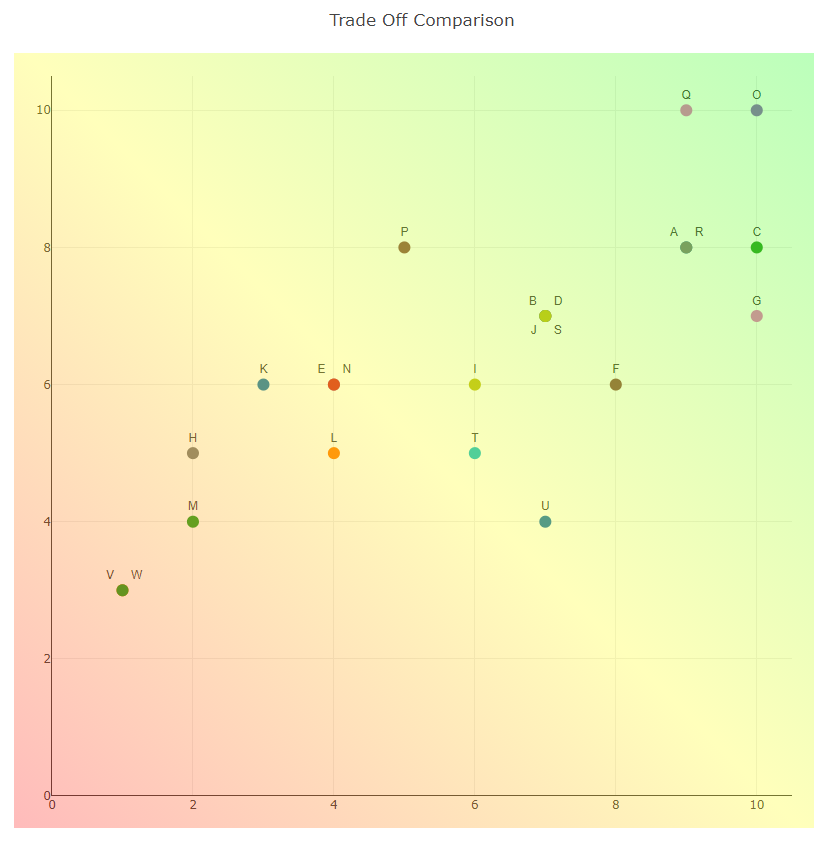
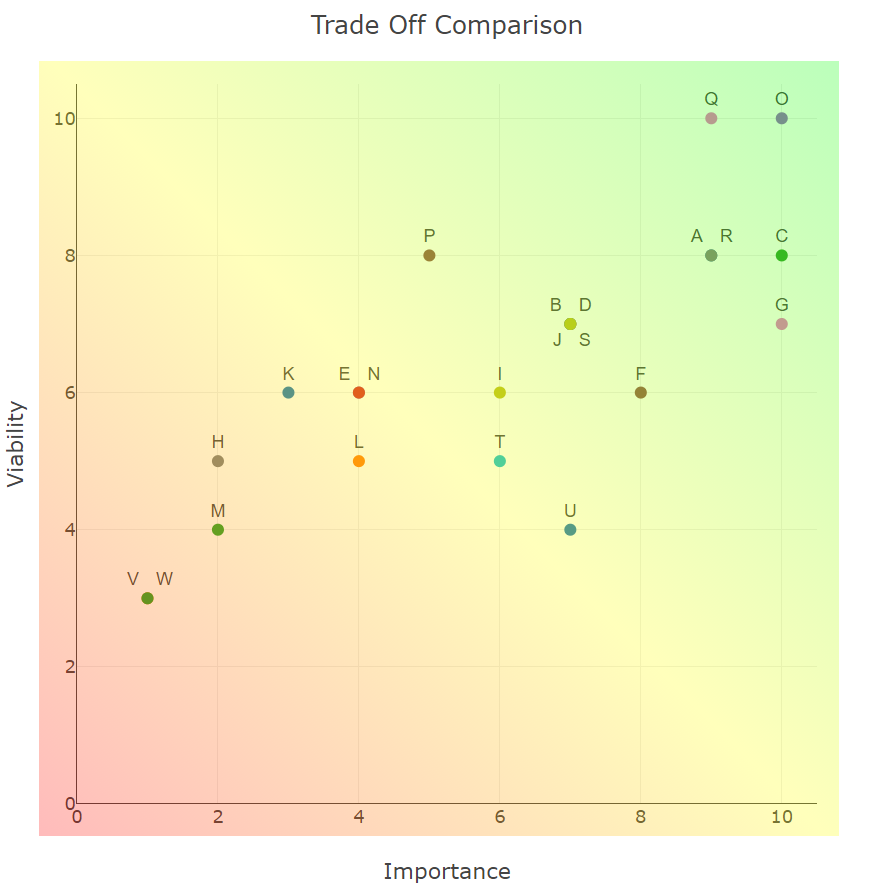
ADD axis labels to comparison chart and update image [scatter.js]

diff --git a/readme-content/scatter.js b/readme-content/scatter.js
@@ -46,12 +46,23 @@ let data = [plotA, plotB, plotC, plotD, plotE, plotF, plotG, plotH, plotI, plotJ
 
 let layout = {
   xaxis: {
-    range: [0, 10.5]
+    title: "Importance",
+    range: [0, 10.5],
+    font: {
+      size: 14,
+    }
   },
   yaxis: {
-    range: [0, 10.5]
+    title: "Viability",
+    range: [0, 10.5],
+    font: {
+      size: 14,
+    }
   },
   title:'Trade Off Comparison',
+  font: {
+    size: 18,
+  },
   showlegend: false,
 };
 
